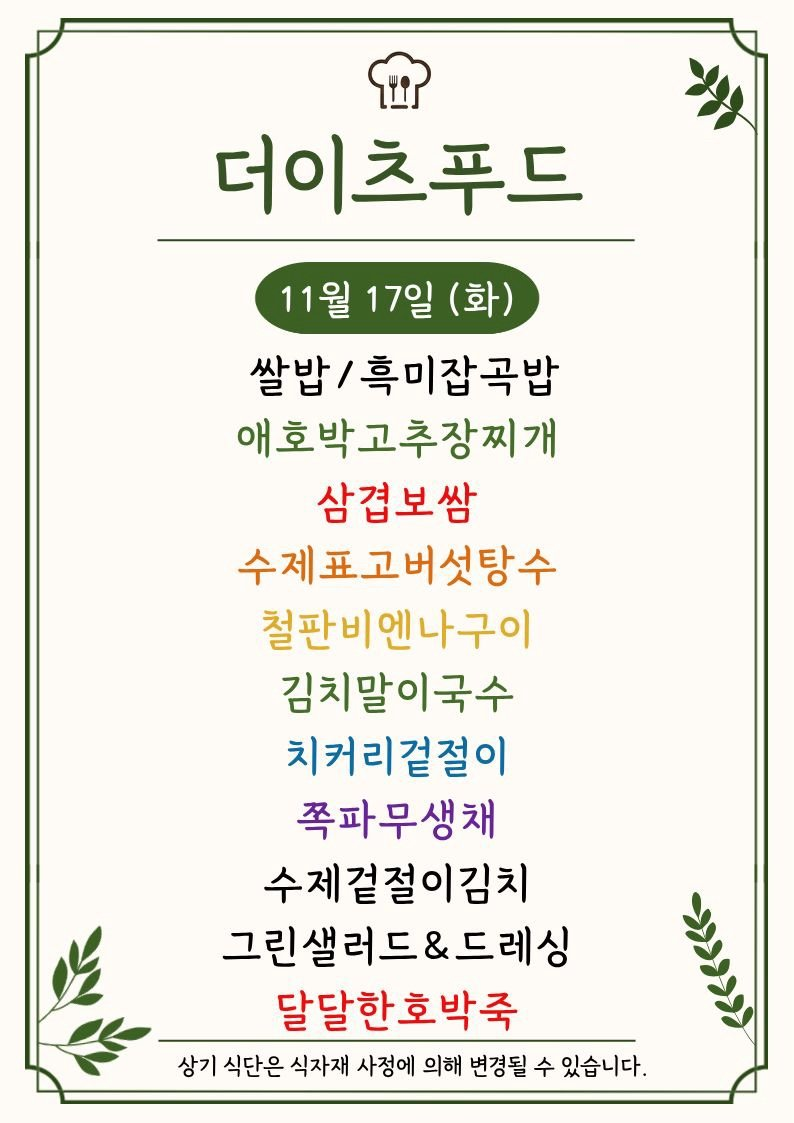
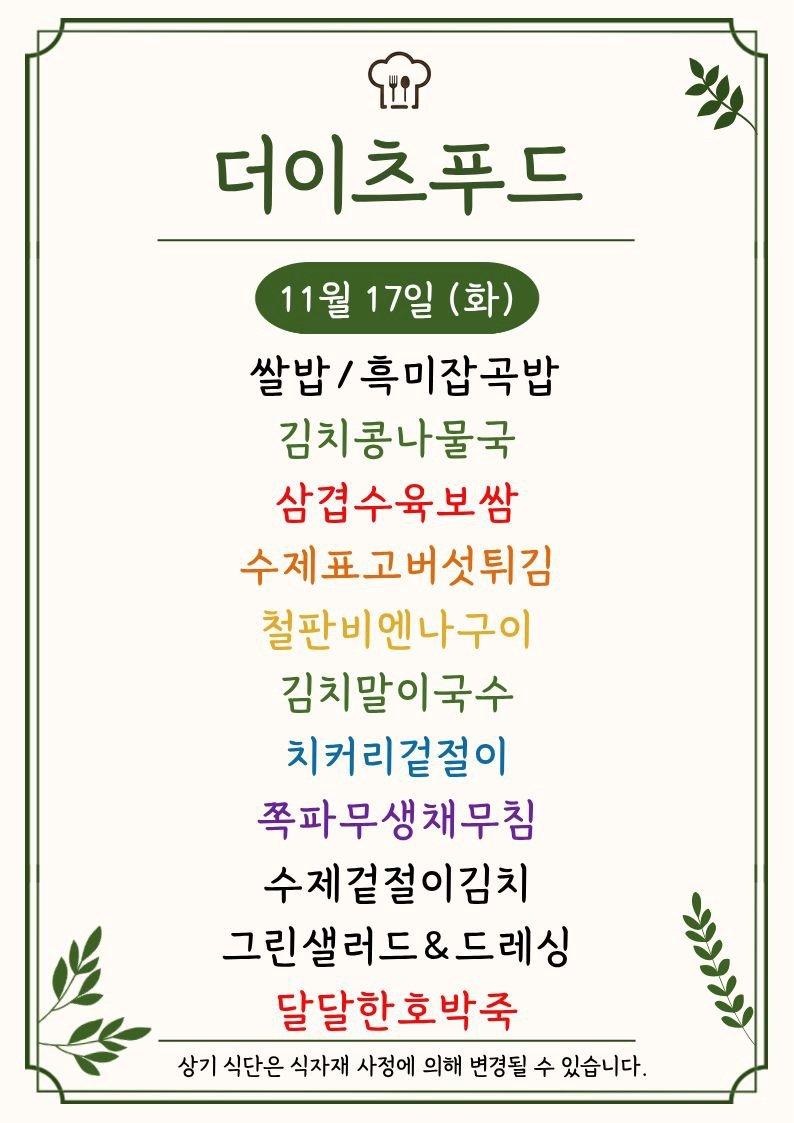
Update menu board assets

Changed region(s): [[0.3023, 0.374, 0.7254, 0.5298], [0.3325, 0.7168, 0.6952, 0.748]]

diff --git a/guro-menu/index.html b/guro-menu/index.html
@@ -32,7 +32,7 @@
   </header>
   <section class="meta">
     <div><small>기준 날짜</small><strong>2026년 11월 17일 화요일</strong></div>
-    <div><small>최종 갱신</small><strong>2026-11-17 10:49:06</strong></div>
+    <div><small>최종 갱신</small><strong>2026-11-17 11:04:08</strong></div>
     <div><small>등록 식당</small><strong>5개</strong></div>
   </section>
   <div class="notice">공개 카카오 채널의 메뉴 이미지를 자동 수집하고 OCR로 정리합니다. 텍스트에 오타가 있을 수 있으니 식단 이미지를 함께 확인해 주세요.</div>
@@ -75,8 +75,8 @@
           <a class="channel" href="https://pf.kakao.com/_xeVwxnn" target="_blank" rel="noopener">원본 채널</a>
         </div>
         <img class="menu-image" src="./images/the-eats-food.png" alt="더이츠푸드 식단 이미지" loading="lazy">
-        <p class="message">최신 공개 식단 이미지의 텍스트입니다. 날짜는 원본 이미지를 확인해 주세요.</p>
-        <ul><li>더 이</li><li>112 172) (화)</li><li>쌀밥/흑미잡곡밥</li><li>애호박고추장찌개</li><li>삼겹보쌈</li><li>수제표고버섯탕수</li><li>청파! 엔 나구이</li><li>김치말이국수</li><li>치커리겉절이</li><li>쪽파무생채</li><li>수제겉절이김치 y</li><li>그림샐러드&amp;드레싱 %</li><li>달달한호박죽 인</li></ul>
+        
+        <ul><li>더이츠푸느</li><li>쌀밥/흑미잡곡밥</li><li>김치콩나물국</li><li>삼겹수육보쌈</li><li>수제표고버섯튀김</li><li>청판비에나구이</li><li>김치말이국수</li><li>치커리겉절이</li><li>쪽파무생채무침</li><li>수제겉절이김치 y</li><li>그림샐러드&amp;드레싱 %</li><li>달달한호박죽 ef)</li></ul>
       </article>
 
       <article class="restaurant-card">

diff --git a/menu-today/index.html b/menu-today/index.html
@@ -209,7 +209,7 @@
 
     <section class="meta-bar">
       <div class="meta-card"><div class="meta-label">기준 날짜</div><div class="meta-value">2026년 11월 17일 화요일</div></div>
-      <div class="meta-card"><div class="meta-label">최종 가져온 시간</div><div class="meta-value">2026-11-17 10:48:51</div></div>
+      <div class="meta-card"><div class="meta-label">최종 가져온 시간</div><div class="meta-value">2026-11-17 11:03:54</div></div>
       <div class="meta-card"><div class="meta-label">확인 완료</div><div class="meta-value">9개 식당</div></div>
       <div class="meta-card"><div class="meta-label">준비중</div><div class="meta-value">3개 채널</div></div>
     </section>
